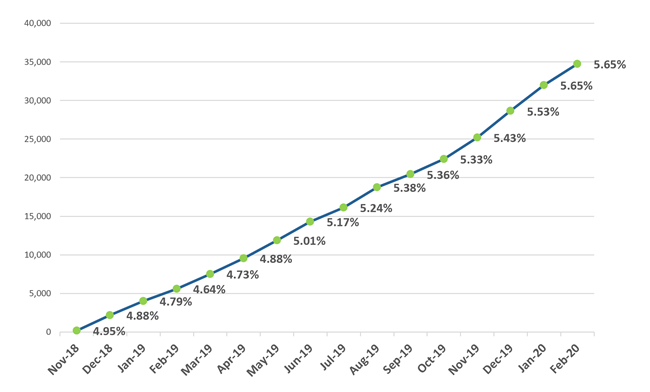
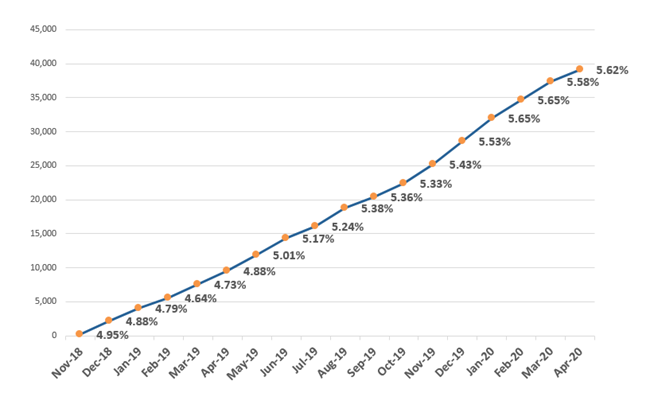
Commit of Content/Live_use_cases/NHS_111_Discovery_frailty_flagging.htm,Content/Resources/frailty codes.xlsx,Content/Resources/Images/Frailty graph.png,Content/Technical.htm

diff --git a/Content/Technical.htm b/Content/Technical.htm
@@ -682,7 +682,7 @@
                                 </td>
                                 <td style="background-color: #ffe2cc;"><i class="fas fa-check green"></i>
                                 </td>
-                                <td style="background-color: #e6ffcc;"><i class="fas fa-check green"></i><sup>1</sup>
+                                <td style="background-color: #e6ffcc;"><i class="fas fa-check green"></i>
                                 </td>
                                 <td style="background-color: #ffcccc;"><i class="fas fa-times red"></i>
                                 </td>
@@ -721,7 +721,7 @@
                                 </td>
                             </tr>
                             <tr>
-                                <td>Observations<sup>2</sup></td>
+                                <td>Observations<sup>1</sup></td>
                                 <td style="background-color: #cce8ff;"><i class="fas fa-check green"></i>
                                 </td>
                                 <td style="background-color: #cce8ff;"><i class="fas fa-check green"></i>
@@ -975,8 +975,8 @@
                 </div>
             </div>
         </div>
-        <p><sup>1</sup>non-coded.</p>
-        <p><sup>2</sup>includes signs, symptoms, biological values, and pathology.</p>
+        
+        <p><sup>1</sup>includes signs, symptoms, biological values, and pathology.</p>
         <p><i class="fa fa-check green fa-fw"></i> = Data sets available and published to the DDS</p>
         <p><i class="fa fa-times red fa-fw"></i> = Data sets available but not published to the DDS</p>
         <p><i class="fas fa-minus grey fa-fw"></i> = Not applicable</p>

diff --git a/Content/Live_use_cases/NHS_111_Discovery_frailty_flagging.htm b/Content/Live_use_cases/NHS_111_Discovery_frailty_flagging.htm
@@ -7,11 +7,11 @@
         <p>Since the project went live in November 2018, the Discovery Data Service has: 
 		</p>
         <ul>
-            <li class="bullets">matched 614,222 patients</li>
-            <li class="bullets">flagged 34,721 potentially frail patients</li>
+            <li class="bullets">matched 695,104 patients</li>
+            <li class="bullets">flagged 39,091 potentially frail patients</li>
             <li class="bullets"><a href="../Popups/Frailty_graph.htm" class="MCTopicPopup MCTopicPopupHotSpot MCXref xref" MadCap:width="750px" MadCap:height="750px">Monthly totals</a>
             </li>
-            <li class="bullets">Latest update: 2 March 2020</li>
+            <li class="bullets">Latest update: 16 April 2020</li>
         </ul>
         <h2>Project summary</h2>
         <p>The NHS 111 Discovery frailty flagging project utilises  Discovery data to flag key information to NHS 111 call handlers to improve the patient pathway and experience, and reduce the unnecessary use of emergency services and admission to A&amp;E.</p>
